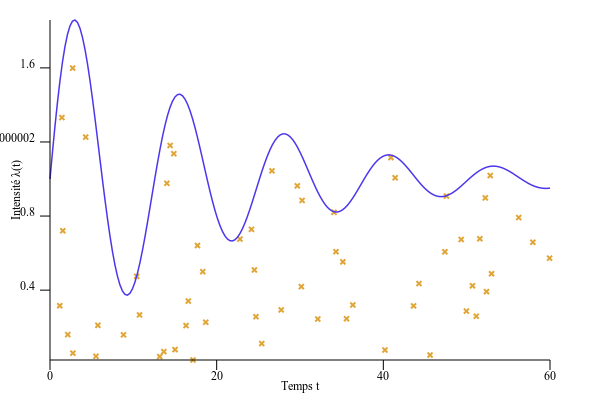
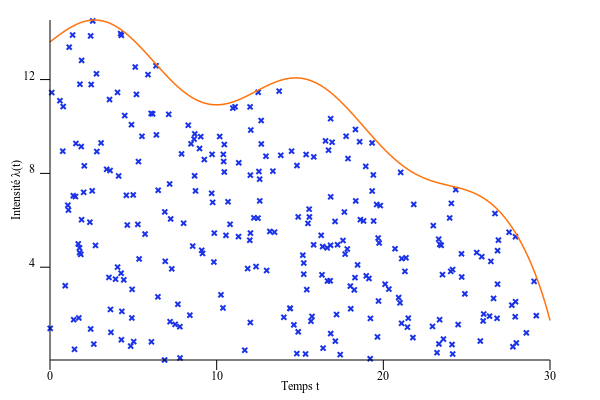
added more vis on readme

diff --git a/src/timedependent.rs b/src/timedependent.rs
@@ -50,7 +50,8 @@ pub fn variable_poisson(tmax: f64, lambda: fn(f64) -> f64, max_lambda: f64) -> V
 }
 
 /// Simulate a Hawkes process with an exponential kernel
-/// by utilising the linear time-complexity algorithm in [DassiosZhao13](http://eprints.lse.ac.uk/51370/1/Dassios_exact_simulation_hawkes.pdf)
+/// by utilising the linear time-complexity algorithm in [DassiosZhao13](http://eprints.lse.ac.uk/51370/1/Dassios_exact_simulation_hawkes.pdf).
+/// Returns the intensity process.
 pub fn hawkes_exponential(tmax: f64, alpha: f64, beta: f64, lambda0: f64) -> Vec<Event> {
 
     let mut t = 0.0;
@@ -59,39 +60,31 @@ pub fn hawkes_exponential(tmax: f64, alpha: f64, beta: f64, lambda0: f64) -> Vec
     let mut result = Vec::<Event>::new();
 
     while t < tmax {
-        let u0 = random::<f64>();
-        let s0 = -1.0/lambda0*u0.ln();
+        // variables U_1 and S_{k+1}^(1) from the paper @DassiosZhao13
+        let u1 = random::<f64>();
+        let s1 = -1.0/beta*u1.ln();
 
         let d = if last_lambda > lambda0 {
-            1.0 + beta*u0.ln()/(last_lambda - lambda0)
+            1.0 + beta*u1.ln()/(last_lambda - lambda0)
         } else { ::std::f64::NEG_INFINITY };
         
-        let s1: f64;
+        let s2 = -1.0/lambda0*random::<f64>().ln();
         
         previous_t = t;
 
-        
-        t += if d > 0.0 {
-            s1 = -1.0/lambda0*random::<f64>().ln();
-            if s0 <= s1 {
-                s0
-            } else {
-                s1
-            }
+        t += if d < 0.0 {
+            s2
         } else {
-            s0
+            s1.min(s2)
         };
 
-        if t > tmax {
-            break;
-        }
-
-        last_lambda = lambda0 + alpha + (last_lambda - lambda0)*(-beta*(t-previous_t)).exp();
+        last_lambda = lambda0 + (last_lambda - lambda0)*(-beta*(t-previous_t)).exp();
 
         let new_event = Event::new(t, last_lambda);
-
-        
         result.push(new_event);
+
+        last_lambda += alpha;
+
     }
 
     result

diff --git a/examples/hawkes_exp.rs b/examples/hawkes_exp.rs
@@ -7,7 +7,8 @@ use std::fs;
 use plotlib::style::{Point, Marker, Line};
 use plotlib::view;
 use plotlib::page;
-use plotlib::function;
+//use plotlib::function;
+use plotlib::line;
 use plotlib::scatter;
 use plotlib::scatter::Scatter;
 
@@ -17,7 +18,7 @@ use pointprocesses::hawkes_exponential;
 fn main() {
     
     let tmax = 20.0;
-    let alpha = 0.6;
+    let alpha = 0.5;
     let beta = 0.8;
     let lambda0 = 1.0;
 
@@ -38,17 +39,37 @@ fn main() {
         let result: f64 = events
             .iter()
             .take_while(|&ev| ev.timestamp() < t)
-            .map(|ev| {
-            kernel(t - ev.timestamp())
-        }).sum();
+            .fold(0.0, |acc, ev| {
+            acc+kernel(t - ev.timestamp())
+        });
         result + lambda0
     };
 
+    let samples = 1000;
+    let times = (0..samples).map(|i| {
+        i as f64*tmax/samples as f64
+    });
+    let mut intens_data: Vec<(f64,f64)> = Vec::new();
+
+    for t in times {
+        let lam = intensity_func(&events, t);
+        //intens_data.push((t-0.0001/samples as f64, lam-alpha));
+        intens_data.push((t, lam));
+    };
+
+    let intens_plot = line::Line::new(&intens_data)
+        .style(line::Style::new()
+            .width(1.5)
+            .colour("#4C36EB")
+        );
+
+    /*
     let intens_plot = function::Function::new(
         |t| intensity_func(&events, t), 0.0, tmax)
         .style(function::Style::new()
             .width(1.5)
             .colour("#4C36EB"));
+    */
 
     let ev_tupl: Vec<(f64,f64)> = events.into_iter()
         .map(|e: Event| {

diff --git a/examples/variable_poisson.rs b/examples/variable_poisson.rs
@@ -15,16 +15,16 @@ use std::fs;
 
 fn main() {
     
-    let tmax = 60.0;
+    let tmax = 30.0;
     let f: fn(f64) -> f64 = |t| {
-        1.0 + (0.5*t).sin()*(-0.05*t).exp()
+        4.0*(30.0 - 0.95*t).ln()*(1.0 + 0.1*(0.5*t).sin())
     };
-    let events: Vec<Event> = variable_poisson(tmax, f, 2.0);
+    let events: Vec<Event> = variable_poisson(tmax, f, 17.0);
 
     println!("{}", serde_json::to_string_pretty(&events).unwrap());
     
     let intens_plot = function::Function::new(f, 0.0, tmax)
-        .style(function::Style::new().colour("#4C36EB").width(1.5));
+        .style(function::Style::new().colour("#FF720C").width(1.5));
     
     let event_data: Vec<(f64,f64)> = events.into_iter()
         .map(|e: Event| (e.timestamp(), e.intensity()))
@@ -34,7 +34,7 @@ fn main() {
         .style(scatter::Style::new()
             .size(2.5)
             .marker(Marker::Cross)
-            .colour("#E0A536"));
+            .colour("#1932E8"));
     
     let v = view::ContinuousView::new()
         .add(&s)

diff --git a/README.md b/README.md
@@ -15,7 +15,7 @@ This crate provides functions to simulate point processes in [Rust](https://rust
 The following time-dependent point processes have been implemented within the `timedependent` module:
 
 * Poisson point process (homogeneous and inhomogeneous, with custom function)
-* Hawkes processes (exponential kernel, see [@DassiosZhao13])
+* Hawkes processes, with the exponential kernel (refer to Dassios and Zhao's 2013 paper [(1)]) ![hawkesexp](hawkes_exp.png)
 
 The API returns the process trajectories as a vector of a `struct` named `Events`, which has the following fields: a timestamp, the current process intensity and a vector holding any children events (for processes with this property, *coming soon*).
 
@@ -46,4 +46,4 @@ Some will produce SVG image files in the `examples` directory.
 
 The examples show how to use the API.
 
-[@DassiosZhao13]: http://eprints.lse.ac.uk/51370/1/Dassios_exact_simulation_hawkes.pdf "Exact simulation of Hawkes process with exponentially decaying intensity"
+[(1)]: http://eprints.lse.ac.uk/51370/1/Dassios_exact_simulation_hawkes.pdf "Exact simulation of Hawkes process with exponentially decaying intensity"
